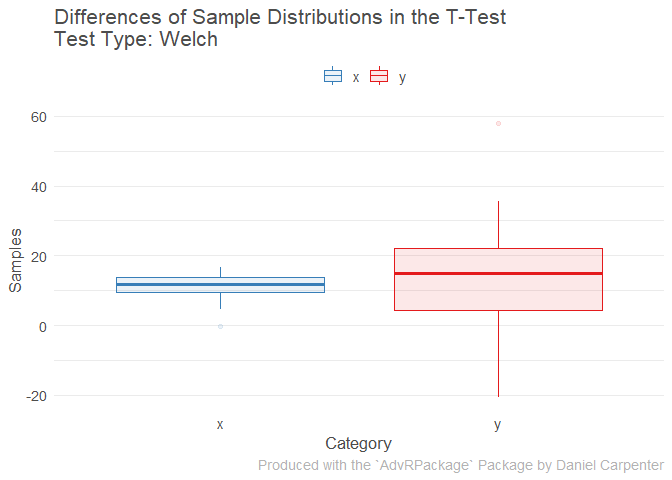
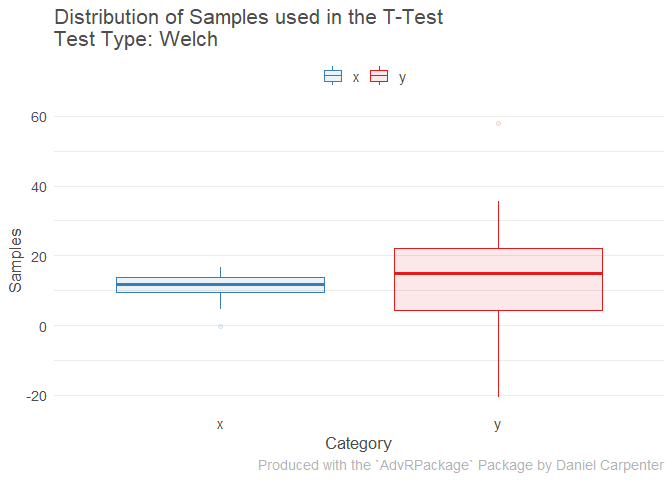
Fix: Swap distribution and differences plot titles

Changed region(s): [[0.0938, 0.0, 0.75, 0.0625]]

diff --git a/dev/Build-Package.md b/dev/Build-Package.md
@@ -1,7 +1,7 @@
 Check and Build Package
 ================
 Daniel Carpenter
-2023-04-22
+2023-04-23
 
 Do this every time you make a change
 
@@ -38,11 +38,6 @@ devtools::check()
     ## * checking for LF line-endings in source and make files and shell scripts
     ## * checking for empty or unneeded directories
     ## Omitted 'LazyData' from DESCRIPTION
-    ##   NB: this package now depends on R (>= 3.5.0)
-    ##   WARNING: Added dependency on R >= 3.5.0 because serialized objects in
-    ##   serialize/load version 3 cannot be read in older versions of R.
-    ##   File(s) containing such objects:
-    ##     'AdvRPackage/shiny-example/.RData'
     ## * building 'AdvRPackage_0.1.0.tar.gz'
     ## 
     ## ══ Checking ════════════════════════════════════════════════════════════════════
@@ -52,7 +47,7 @@ devtools::check()
     ## • _R_CHECK_FORCE_SUGGESTS_      : FALSE
     ## • NOT_CRAN                      : true
     ## ── R CMD check ─────────────────────────────────────────────────────────────────
-    ## * using log directory 'C:/Users/daniel.carpenter/AppData/Local/Temp/RtmpmQw3yC/AdvRPackage.Rcheck'
+    ## * using log directory 'C:/Users/daniel.carpenter/AppData/Local/Temp/RtmpGoAewS/AdvRPackage.Rcheck'
     ## * using R version 4.2.3 (2023-03-15 ucrt)
     ## * using platform: x86_64-w64-mingw32 (64-bit)
     ## * using session charset: UTF-8
@@ -66,13 +61,10 @@ devtools::check()
     ## * checking if this is a source package ... OK
     ## * checking if there is a namespace ... OK
     ## * checking for executable files ... OK
-    ## * checking for hidden files and directories ... NOTE
-    ## Found the following hidden files and directories:
-    ##   shiny-example/.RData
-    ## These were most likely included in error. See section 'Package
-    ## structure' in the 'Writing R Extensions' manual.
+    ## * checking for hidden files and directories ... OK
     ## * checking for portable file names ... OK
-    ## * checking whether package 'AdvRPackage' can be installed ... [11s] OK
+    ## * checking serialization versions ... OK
+    ## * checking whether package 'AdvRPackage' can be installed ... [12s] OK
     ## * checking installed package size ... OK
     ## * checking package directory ... OK
     ## * checking for future file timestamps ... OK
@@ -125,20 +117,13 @@ devtools::check()
     ## * checking for non-standard things in the check directory ... OK
     ## * checking for detritus in the temp directory ... OK
     ## * DONE
-    ## 
-    ## Status: 3 NOTEs
+    ## Status: 2 NOTEs
     ## See
-    ##   'C:/Users/daniel.carpenter/AppData/Local/Temp/RtmpmQw3yC/AdvRPackage.Rcheck/00check.log'
+    ##   'C:/Users/daniel.carpenter/AppData/Local/Temp/RtmpGoAewS/AdvRPackage.Rcheck/00check.log'
     ## for details.
 
     ## ── R CMD check results ────────────────────────────────── AdvRPackage 0.1.0 ────
-    ## Duration: 1m 5.5s
-    ## 
-    ## ❯ checking for hidden files and directories ... NOTE
-    ##   Found the following hidden files and directories:
-    ##     shiny-example/.RData
-    ##   These were most likely included in error. See section 'Package
-    ##   structure' in the 'Writing R Extensions' manual.
+    ## Duration: 1m 10.4s
     ## 
     ## ❯ checking top-level files ... NOTE
     ##   Non-standard files/directories found at top level:
@@ -156,7 +141,7 @@ devtools::check()
     ##   Undefined global functions or variables:
     ##     sampleNames sampleValues where x y
     ## 
-    ## 0 errors ✔ | 0 warnings ✔ | 3 notes ✖
+    ## 0 errors ✔ | 0 warnings ✔ | 2 notes ✖
 
 ``` r
 # Build the package
@@ -171,11 +156,6 @@ devtools::build()
     ## * checking for LF line-endings in source and make files and shell scripts
     ## * checking for empty or unneeded directories
     ## Omitted 'LazyData' from DESCRIPTION
-    ##   NB: this package now depends on R (>= 3.5.0)
-    ##   WARNING: Added dependency on R >= 3.5.0 because serialized objects in
-    ##   serialize/load version 3 cannot be read in older versions of R.
-    ##   File(s) containing such objects:
-    ##     'AdvRPackage/shiny-example/.RData'
     ## * building 'AdvRPackage_0.1.0.tar.gz'
     ## 
 
@@ -194,15 +174,10 @@ devtools::install(build_vignettes = TRUE, upgrade = 'never')
     ## * checking for LF line-endings in source and make files and shell scripts
     ## * checking for empty or unneeded directories
     ## Omitted 'LazyData' from DESCRIPTION
-    ##   NB: this package now depends on R (>= 3.5.0)
-    ##   WARNING: Added dependency on R >= 3.5.0 because serialized objects in
-    ##   serialize/load version 3 cannot be read in older versions of R.
-    ##   File(s) containing such objects:
-    ##     'AdvRPackage/shiny-example/.RData'
     ## * building 'AdvRPackage_0.1.0.tar.gz'
     ## 
     ## Running "C:/PROGRA~1/R/R-42~1.3/bin/x64/Rcmd.exe" INSTALL \
-    ##   "C:\Users\DANIEL~1.CAR\AppData\Local\Temp\RtmpmQw3yC/AdvRPackage_0.1.0.tar.gz" \
+    ##   "C:\Users\DANIEL~1.CAR\AppData\Local\Temp\RtmpGoAewS/AdvRPackage_0.1.0.tar.gz" \
     ##   --install-tests 
     ## * installing to library 'C:/Users/daniel.carpenter/AppData/Local/R/win-library/4.2'
     ## * installing *source* package 'AdvRPackage' ...

diff --git a/README.md b/README.md
@@ -1,7 +1,7 @@
 AdvRPackage
 ================
 Author: Daniel Carpenter
-April 22, 2023
+April 23, 2023
 
 - <a href="#installation" id="toc-installation">Installation</a>
 - <a href="#examples-for-final-package"

diff --git a/dev/Install-from-tar-gz.md b/dev/Install-from-tar-gz.md
@@ -1,7 +1,7 @@
 Install Package from tar.gz file
 ================
 Daniel Carpenter
-2023-04-22
+2023-04-23
 
 Do this every time you make a change
 
